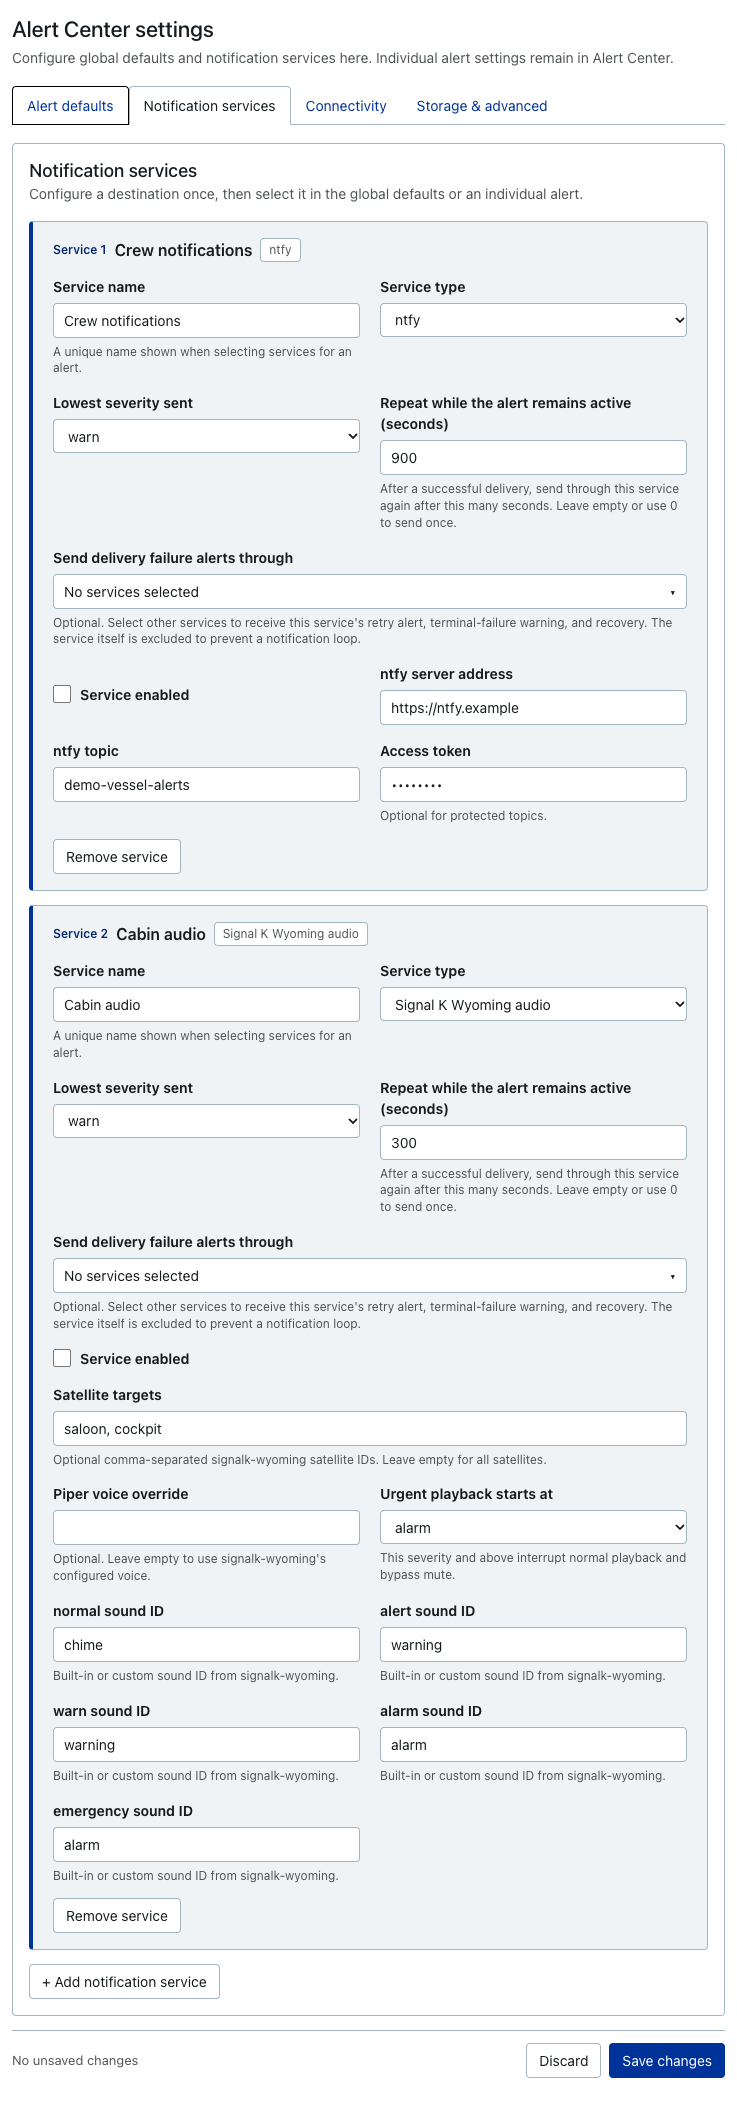
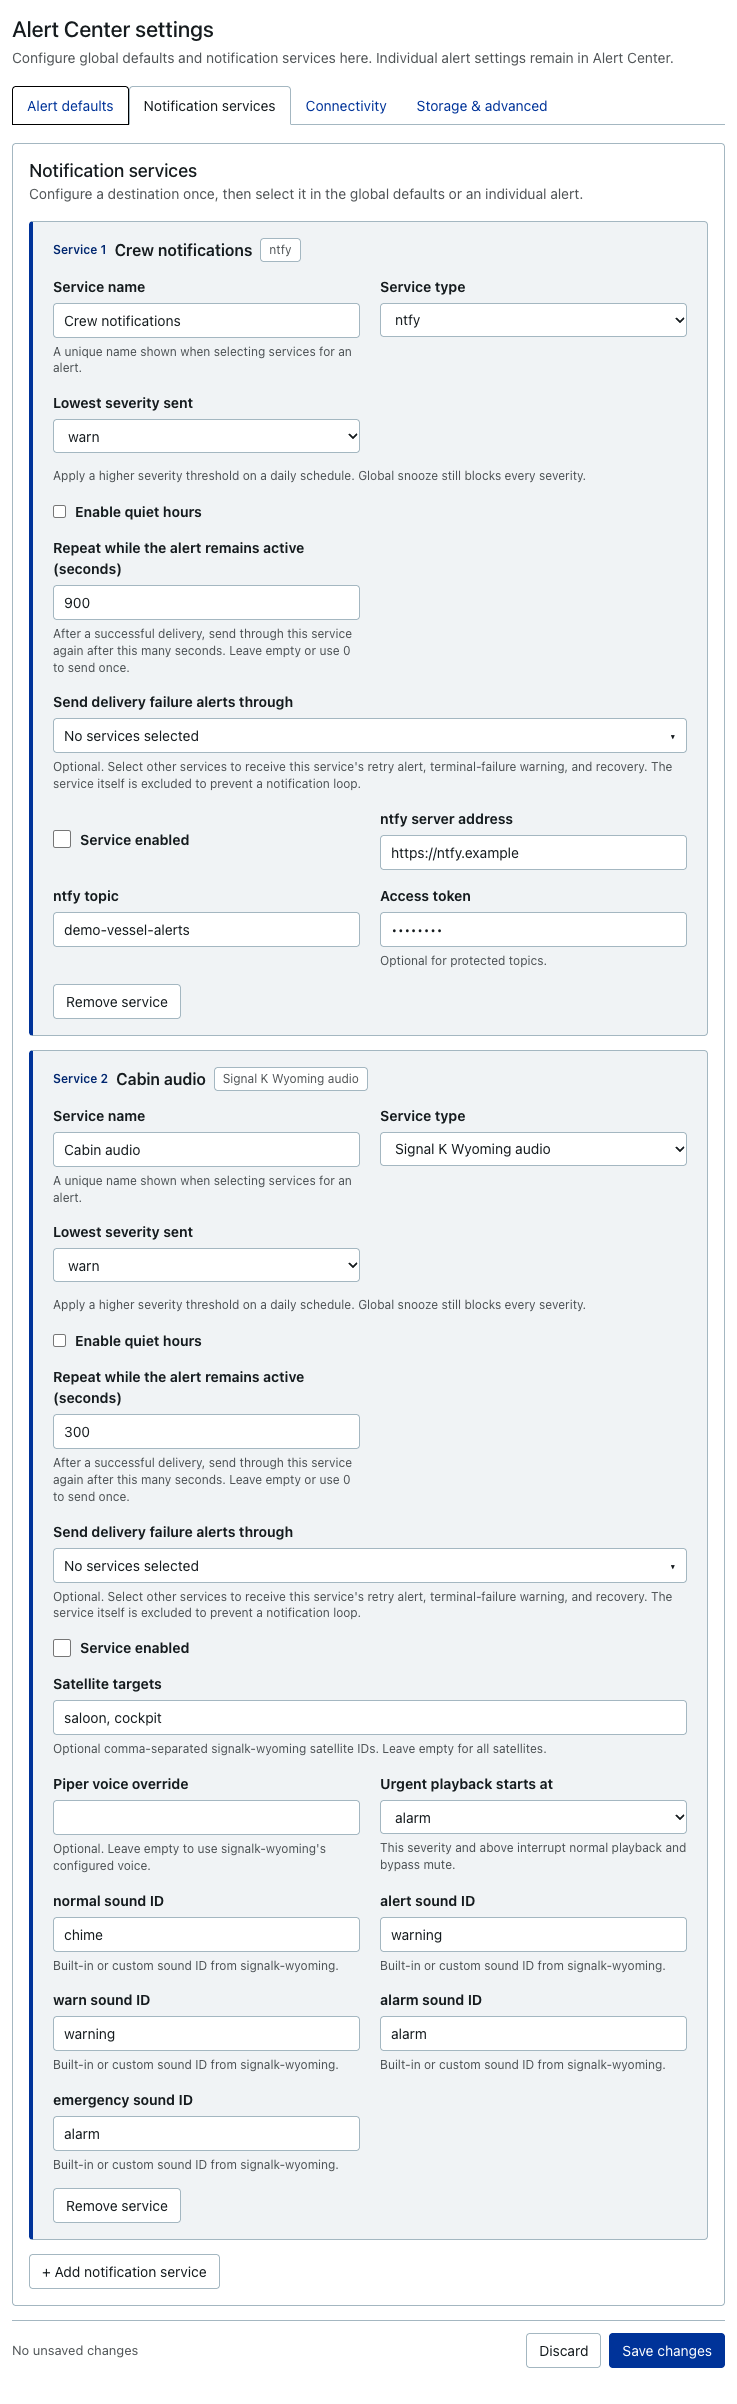
Clarify supported services and refresh store listing screenshots (#75)
* Clarify supported services and refresh store documentation and screenshots

* Use service brand logos in the README

diff --git a/README.md b/README.md
@@ -1,9 +1,28 @@
 # Signal K Alert Center
 
-Signal K Alert Center gives your boat one durable place for alarms and
-notifications. It keeps alert history across restarts, shows configured Signal K
-zones before they fire, and reliably forwards alerts even when the boat is
-temporarily offline.
+One place for your boat's alerts, history, and notification delivery. See live
+readings and configured Signal K zones, keep history across restarts, and queue
+notifications while offline for delivery when connectivity returns.
+
+## Supported notification services
+
+| Service                                                                                          | Use it for                                                                        |
+| ------------------------------------------------------------------------------------------------ | --------------------------------------------------------------------------------- |
+| <img src="./docs/icons/ntfy.svg" width="24" height="24" alt="ntfy logo"> **ntfy**                | Push notifications through your own ntfy server or a hosted service.              |
+| <img src="./docs/icons/pagerduty.svg" width="24" height="24" alt="PagerDuty logo"> **PagerDuty** | Incidents with trigger, acknowledgement, and resolution events.                   |
+| <img src="./docs/icons/discord.svg" width="24" height="24" alt="Discord logo"> **Discord**       | Alert and recovery messages through webhooks.                                     |
+| <img src="./docs/icons/telegram.svg" width="24" height="24" alt="Telegram logo"> **Telegram**    | Bot messages to chats and forum topics, with optional silent delivery.            |
+| **Signal K Wyoming**                                                                             | Onboard notification sounds and spoken alerts through optional `signalk-wyoming`. |
+
+Use several services together, with independent delivery tracking and retries.
+**No audio plugin is required.** Wyoming audio needs `signalk-wyoming` 0.3.0 or
+newer; speech also needs a TTS service such as `signalk-piper`. You can use the
+alert list and history without configuring any notification service.
+
+[Get started](#installation-and-first-run) ·
+[Service setup](#notification-service-settings) ·
+[Snooze](#snooze-all-alerts) ·
+[Quiet hours](#quiet-hours-per-notification-service)
 
 ![Alert Center showing active alerts and defined zones](./docs/screenshots/alert-center-overview.png)
 
@@ -28,6 +47,9 @@ current value changes:
   announcements.
 - **Understand every delivery.** The delivery view shows the destination,
   status, timing, retry attempts, and error details.
+- **Choose when to be notified.** Snooze all services temporarily, or set quiet
+  hours and a severity threshold for each service using server-local time or a
+  specific timezone.
 - **See service failures as Signal K notifications.** Each enabled notification
   service publishes its own health notification: `normal` when no delivery
   failure remains, `alert` while failed deliveries await retry, and `warn` when
@@ -73,13 +95,17 @@ You can configure:
 
 **Alert history** is a chronological record of Signal K alert changes. It is
 separate from **Deliveries**, which tracks attempts to send those alerts to
-notification services. Failed deliveries can be deleted individually or in
+notification services.
+
+![Chronological Signal K alert changes, separate from delivery attempts](./docs/screenshots/alert-history.png)
+
+Failed deliveries can be deleted individually or in
 bulk when they should no longer be retried; this keeps the alert occurrence and
 its alert history while removing the delivery and its attempt history.
 
 ![Notification delivery history and retry status](./docs/screenshots/delivery-history.png)
 
-## Supported notification services
+## Notification service settings
 
 Notification services are created globally in **Server → Plugin Config → Signal
 K Alert Center**. Individual alerts then select from those named services.
@@ -87,6 +113,8 @@ For each service, **Send delivery failure alerts through** optionally selects
 other configured services that receive its retry alert, terminal-failure warning,
 and recovery. The affected service cannot select itself, and these internal
 alerts never use normal alert defaults or repeat delivery.
+
+### Live readings, severity, and display units
 
 Signal K severities are ordered from lowest to highest as `normal`, `alert`,
 `warn`, `alarm`, and `emergency`. Signal K's special `nominal` state is treated
@@ -121,13 +149,7 @@ global unit preset and path overrides; a browser user's personal preset may diff
 If the server's unit-settings endpoints are unavailable, explicit metadata conversions
 are used, with °C as the Kelvin fallback and other units unchanged.
 
-| Service                | What is sent                                    | Notes                                                                                                                              |
-| ---------------------- | ----------------------------------------------- | ---------------------------------------------------------------------------------------------------------------------------------- |
-| ntfy                   | Alert title, severity, message, and state       | Supports self-hosted or hosted ntfy servers.                                                                                       |
-| PagerDuty              | Trigger, acknowledgement, and resolution events | Uses one stable deduplication key for an occurrence.                                                                               |
-| Discord                | Alert messages through a webhook                | Each configured webhook is an independent service.                                                                                 |
-| Telegram               | Alert messages through a bot                    | Supports chats, forum topics, and silent Telegram delivery.                                                                        |
-| Signal K Wyoming audio | Severity sound and optional spoken alert        | Optional; requires `signalk-wyoming` 0.3.0 or newer when enabled. Speech additionally needs a TTS service such as `signalk-piper`. |
+### Optional onboard audio
 
 Wyoming audio requires `"sound"` in the Signal K notification’s `method` array.
 Visual-only alerts (`method: ["visual"]`), empty or missing methods, and invalid
@@ -254,22 +276,7 @@ service selected for that alert.
   It shows database health, queue depth, scheduler state, connectivity state, and
   per-service results.
 
-## Help and support
-
-- [Report a problem or request a feature](https://github.com/arodus/signalk-alert-center/issues)
-- [View the source code](https://github.com/arodus/signalk-alert-center)
-- [Read the changelog](./CHANGELOG.md)
-- [Developer and local-testing guide](./DEVELOPERS.md)
-
-When reporting a problem, include the Alert Center version, Signal K version,
-relevant plugin logs, and the diagnostics shown in the webapp. Remove notification
-service secrets and personal vessel information first.
-
-## License
-
-[MIT](./LICENSE)
-
-### Snooze all alerts
+## Snooze all alerts
 
 ![Global snooze banner](./docs/screenshots/global-snooze.jpg)
 
@@ -304,7 +311,7 @@ Authenticated controls share the same persisted state:
   timestamps or `null`. These are plugin-specific paths. Ordinary deltas never
   invoke commands. Manual service tests are blocked during snooze.
 
-### Quiet hours per notification service
+## Quiet hours per notification service
 
 In **Plugin settings → Notification services**, enable **Quiet hours** on each
 service that should be quieter overnight. Choose a daily start/end time,
@@ -330,8 +337,7 @@ Server local time uses the timezone of the Signal K process, not your browser.
 Set the Pi/server timezone when travelling (or the container timezone when using
 Docker). The plugin rechecks the process timezone once per minute; restart Signal K
 after changing the operating system timezone if the process still reports the old
-zone. A specific timezone remains fixed. The service's status shows the resolved
-timezone and its next
+zone. A specific timezone remains fixed. The resolved timezone and next schedule
 transition appear under System diagnostics.
 
 Below-threshold Wyoming audio is cancelled through the same owned-announcement
@@ -339,3 +345,18 @@ API as global snooze. Held work remains durable; cleared alerts do not produce a
 morning flood, active alerts resume once eligible, and missed repeats are not
 replayed. Manual test notifications are treated as normal severity. Quiet work
 does not wake connectivity. Configuration changes take effect when saved.
+
+## Help and support
+
+- [Report a problem or request a feature](https://github.com/arodus/signalk-alert-center/issues)
+- [View the source code](https://github.com/arodus/signalk-alert-center)
+- [Read the changelog](./CHANGELOG.md)
+- [Developer and local-testing guide](./DEVELOPERS.md)
+
+When reporting a problem, include the Alert Center version, Signal K version,
+relevant plugin logs, and the diagnostics shown in the webapp. Remove notification
+service secrets and personal vessel information first.
+
+## License
+
+[MIT](./LICENSE)

diff --git a/docs/STORE_LISTING.md b/docs/STORE_LISTING.md
@@ -3,12 +3,16 @@
 This file is the submission source for Signal K Alert Center. Keep it aligned with
 `package.json`, `README.md`, and the screenshots whenever the product changes.
 
+The README's service table uses locally packaged brand logos for ntfy, PagerDuty,
+Discord, and Telegram. Sources and attribution are in [docs/icons](./icons/README.md).
+Signal K Wyoming is listed by name without an invented logo.
+
 ## Listing metadata
 
 - **Name:** Signal K Alert Center
 - **npm package:** `signalk-alert-center`
-- **Short description:** Persistent Signal K alert history with reliable offline
-  delivery and optional Wyoming audio.
+- **Short description:** Signal K alerts and history with offline delivery to
+  ntfy, PagerDuty, Discord, Telegram, and optional Wyoming sound and speech
 - **Categories:** Notifications; Utility
 - **License:** MIT
 - **Repository:** https://github.com/arodus/signalk-alert-center
@@ -16,18 +20,28 @@ This file is the submission source for Signal K Alert Center. Keep it aligned wi
 
 ## Long description
 
-Signal K Alert Center keeps a durable history of Signal K alarms and
-notifications, shows current alerts alongside discovered paths and defined
-zones, and forwards eligible alerts through independently tracked notification
-services. Delivery work is saved before sending and recovered after restarts, so
-temporary loss of internet access does not silently lose an alert.
+Send your boat's alerts to **ntfy, PagerDuty, Discord, and Telegram**, or play
+notification sounds and spoken alerts through optional **Signal K Wyoming**.
+Use multiple services together; each has its own delivery tracking and retries.
+Wyoming is optional, and speech also needs a TTS service such as `signalk-piper`.
+The alert list and history work without any notification service.
 
-Operators configure connection details and defaults globally, then choose
-services, severity thresholds, activation delays, connectivity behavior, and
-repeat intervals for each alert. Supported services are ntfy, PagerDuty,
-Discord, Telegram, and optional notification sounds and spoken announcements
-through signalk-wyoming. The dashboard separates alert history from delivery
-attempts and exposes useful diagnostics without requiring database access.
+See live readings and configured Signal K zones in one compact alert list, with
+active alerts first. Open an alert for recent occurrences, event history, and
+per-alert settings. Alert history and notification delivery attempts have
+separate tabs so you can see both what happened and what was sent.
+
+Delivery work is saved before sending and recovered after restarts. Configure
+services and defaults globally, then override services, severity thresholds,
+activation delays, connectivity behavior, and repeat intervals for each alert.
+Optional connectivity control can wake a Signal K switch when a delivery needs
+internet access, while respecting manually enabled connectivity.
+
+Temporarily snooze all services, including emergency notifications, without
+losing incoming alert history. Or set quiet hours independently for each service,
+allowing only a chosen severity and above. Schedules support server-local time
+or a specific timezone, including daylight-saving changes. Diagnostics show
+service health and delivery failures; backup services can report those failures.
 
 ## Installation summary
 
@@ -40,15 +54,19 @@ and manual-install instructions.
 
 The plugin adds no analytics or telemetry. Alert history and delivery state remain
 in the local Signal K data directory. Alert content leaves Signal K only through
-services explicitly configured and selected by the operator: ntfy, PagerDuty,
+services explicitly configured and selected by the user: ntfy, PagerDuty,
 Discord, Telegram, or the in-process signalk-wyoming API. The complete disclosure
 is in the [README](../README.md#privacy-and-network-access).
 
 ## Screenshot inventory
 
-1. `alert-center-overview.png` — active alerts, inactive definitions, and a
-   Signal K zone in the main desktop table.
-2. `alert-details.png` — current occurrence, five-occurrence summary, and alert
+The six `package.json` gallery entries are the overview, alert details, alert
+settings, deliveries, service settings, and tablet view. The README adds global
+defaults, alert history, snooze, and quiet hours.
+
+1. `alert-center-overview.png` — live values, reading age, coloured severity
+   cells, row actions, and configured zones in the desktop alert table.
+2. `alert-details.png` — current occurrence, recent-occurrence summary, and alert
    event history.
 3. `alert-settings.png` — per-alert services, repeat timing, connectivity, sound,
    and speech settings.
@@ -58,11 +76,26 @@ is in the [README](../README.md#privacy-and-network-access).
 6. `plugin-settings.png` — configured service cards; all values are synthetic
    and secrets are visibly redacted.
 7. `alert-center-tablet.png` — responsive alert list at tablet width.
+8. `alert-history.png` — chronological alert changes, separate from deliveries.
+9. `global-snooze.jpg` — active snooze banner with its end-now control.
+10. `service-quiet-hours.jpg` — per-service quiet hours, server-local timezone
+    choice, and severity threshold.
 
 Screenshots are generated by `npm run screenshots:store`. They contain only
-deterministic fixture data and no browser chrome, personal vessel information,
-credentials, tokens, passwords, or private host names.
+synthetic fixture data and capture-time timestamps, with no browser chrome,
+personal vessel information, credentials, tokens, passwords, or private host names.
 
-The images reflect the Signal K-style dashboard and settings introduced in PR #69.
-Settings captures show the complete plugin panel without the surrounding admin
-navigation so the actual controls remain readable.
+The images reflect the current UI, including live readings, global snooze,
+per-service quiet hours, and the server-local timezone option. Settings captures
+show the plugin panel (or a single service for quiet hours) without surrounding
+admin navigation. All screenshots are regenerated by the same isolated script.
+
+## Publication checklist
+
+- Keep the package description, service names, optional plugin recommendations,
+  and this text consistent with the README.
+- Run `npm run screenshots:store`, inspect every image, and run
+  `npm run package:check`. Gallery assets must be packaged, at stable relative
+  paths, and below 500 KB each; retain no more than six gallery entries.
+- Publish through the existing release workflow when a release is authorised.
+  Updating GitHub alone does not update the npm-backed Signal K App Store.

diff --git a/docs/icons/README.md b/docs/icons/README.md
@@ -1,0 +1,17 @@
+# Service logos
+
+The README uses locally packaged brand SVGs from
+[Simple Icons 13.0.0](https://github.com/simple-icons/simple-icons/tree/13.0.0/icons),
+distributed under [CC0 1.0](https://github.com/simple-icons/simple-icons/blob/13.0.0/LICENSE.md).
+Paths are unchanged; fill colours use that release's brand metadata.
+
+| Asset           | Brand source                          | Colour    |
+| --------------- | ------------------------------------- | --------- |
+| `ntfy.svg`      | https://ntfy.sh                       | `#317F6F` |
+| `pagerduty.svg` | https://www.pagerduty.com/brand/      | `#06AC38` |
+| `discord.svg`   | https://discord.com/branding          | `#5865F2` |
+| `telegram.svg`  | https://telegram.org/tour/screenshots | `#26A5E4` |
+
+These logos identify supported integrations, not endorsement. Brand names and
+trademarks remain the property of their owners. The Signal K Wyoming row is
+text-only because its upstream repository provides no dedicated logo asset.
